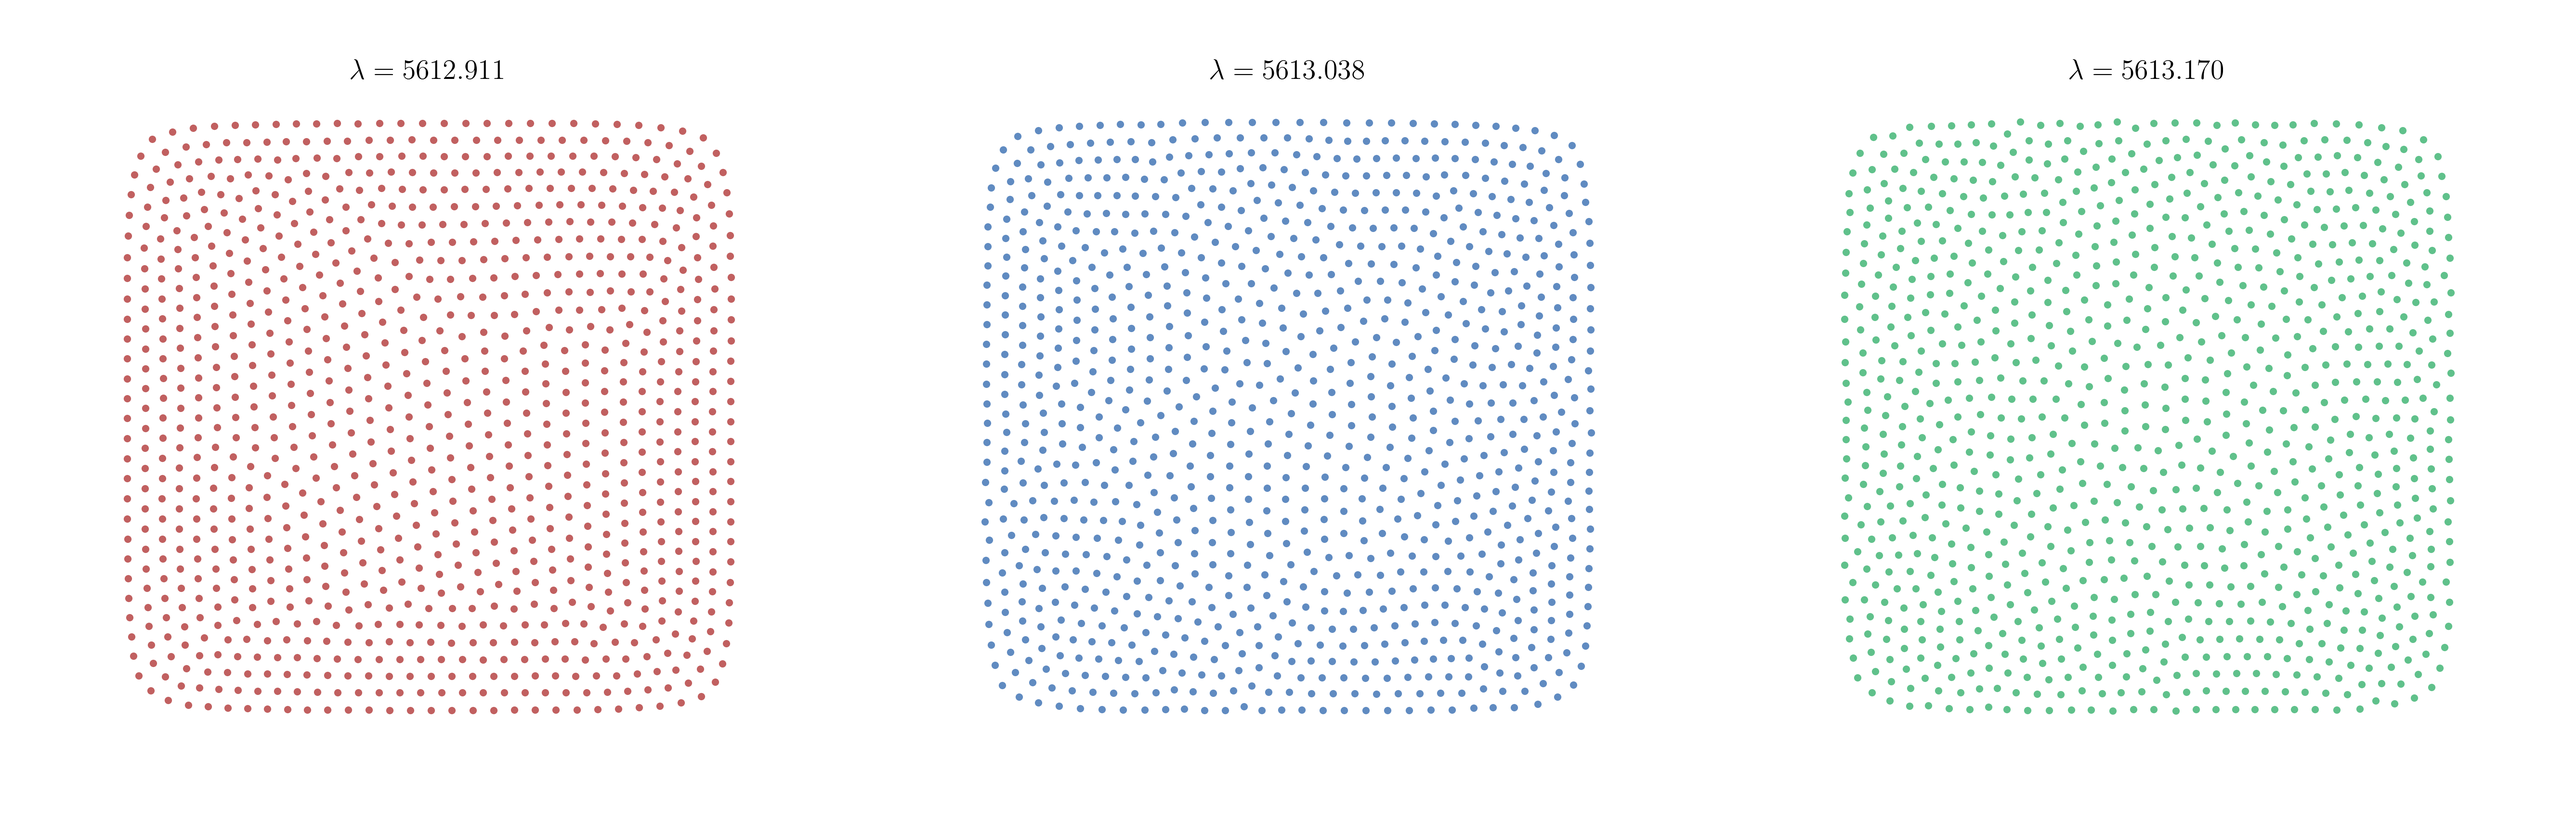
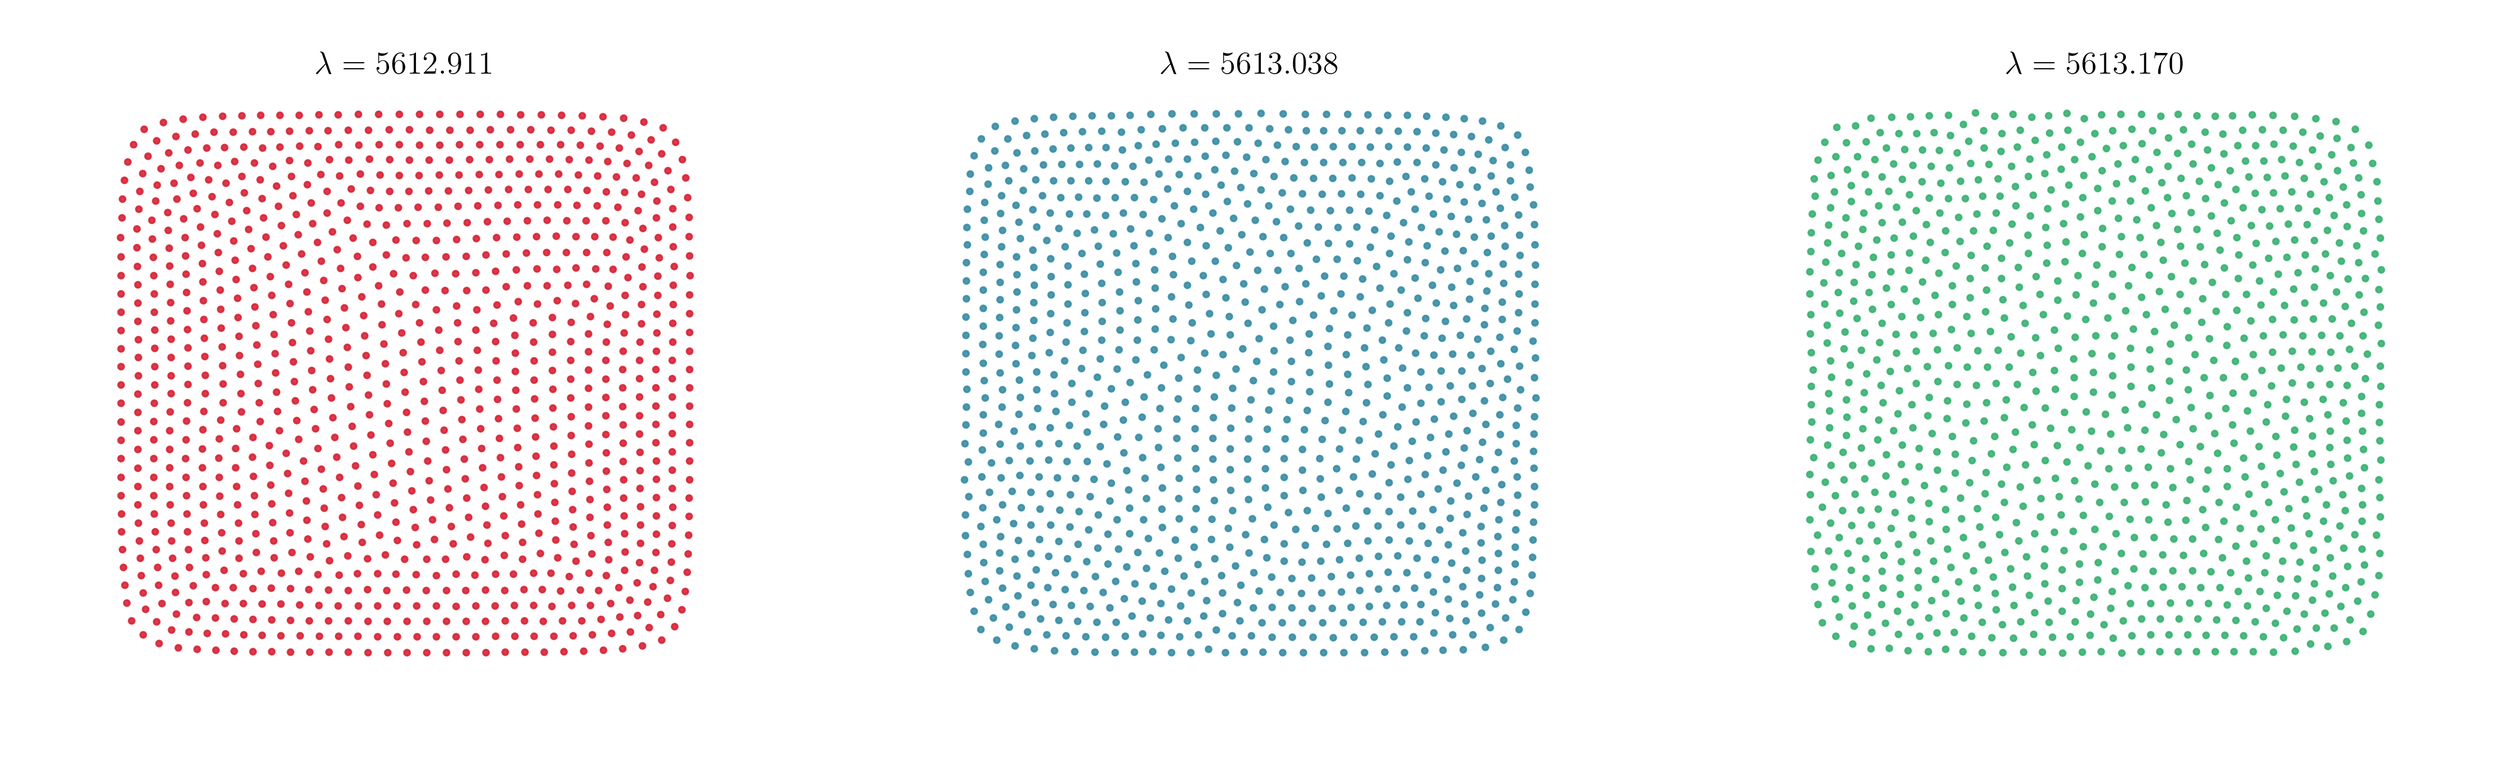
Chane

diff --git a/side_by_side.py b/side_by_side.py
@@ -4,11 +4,14 @@ import torch
 from torch_points import get_loss, ALPHA
 from matplotlib import font_manager
 
+# Update font and plot settings for aesthetics
 plt.rcParams.update(
     {
         "text.usetex": True,
-        "font.family": "sans-serif",
-        "font.size": 14,
+        "font.family": "serif",
+        "font.size": 16,
+        "axes.titlesize": 18,
+        "axes.labelsize": 16,
     }
 )
 
@@ -17,13 +20,16 @@ paths = [
     "points/sweep_optimized_points_5613.0376.npz",
     "points/optimized_points_5613.1704.npz",
 ]
-colors = ["#C16060", "#608BC1", "#60C18B"]
+colors = ["#D72638", "#3B8EA5", "#3BB273"]  # More vibrant, visually contrasting colors
 
-n_cols = 4
-n_rows = (len(paths) + n_cols - 1) // n_cols
-fig, axes = plt.subplots(n_rows, n_cols, figsize=(6 * n_cols, 6 * n_rows), dpi=300)
-axes = axes.flatten()
+# Calculate rows and columns for the layout
+n_cols = len(paths)  # Force a single-row layout for a cleaner presentation
+fig, axes = plt.subplots(1, n_cols, figsize=(6 * n_cols, 6), dpi=300)
 
+if n_cols == 1:
+    axes = [axes]  # Ensure consistency in case of a single plot
+
+# Iterate over paths and generate plots
 for i, path in enumerate(paths):
     points = np.load(path)
     points_array = points["points"]
@@ -34,15 +40,30 @@ for i, path in enumerate(paths):
     loss = get_loss(p_x, p_y, ALPHA, 800, 800)
 
     axes[i].scatter(
-        points_array[:, 0], points_array[:, 1], alpha=1, s=7, color=colors[i]
+        points_array[:, 0], points_array[:, 1], alpha=0.9, s=8, color=colors[i]
     )
-    axes[i].text(400, 735, r"$\lambda = " + f"{loss.item():.3f}$", ha="center")
+    axes[i].text(
+        400,
+        735,
+        r"$\lambda = " + f"{loss.item():.3f}$",
+        ha="center",
+        fontsize=16,
+        color="black",
+        bbox=dict(facecolor="white", alpha=0.7, edgecolor="none"),
+    )
     axes[i].set_xlim(0, 800)
     axes[i].set_ylim(0, 800)
-    axes[i].axis("off")
+    axes[i].set_xticks([])
+    axes[i].set_yticks([])
+    axes[i].spines["top"].set_visible(False)
+    axes[i].spines["right"].set_visible(False)
+    axes[i].spines["left"].set_visible(False)
+    axes[i].spines["bottom"].set_visible(False)
 
+# Remove any unused axes (only if axes > plots)
 for j in range(i + 1, len(axes)):
     axes[j].remove()
 
-plt.tight_layout()
-plt.savefig("side_by_side.png", bbox_inches="tight")
+# Add padding and save the plot
+plt.tight_layout(pad=2)
+plt.savefig("side_by_side_improved.png", bbox_inches="tight", transparent=True)
